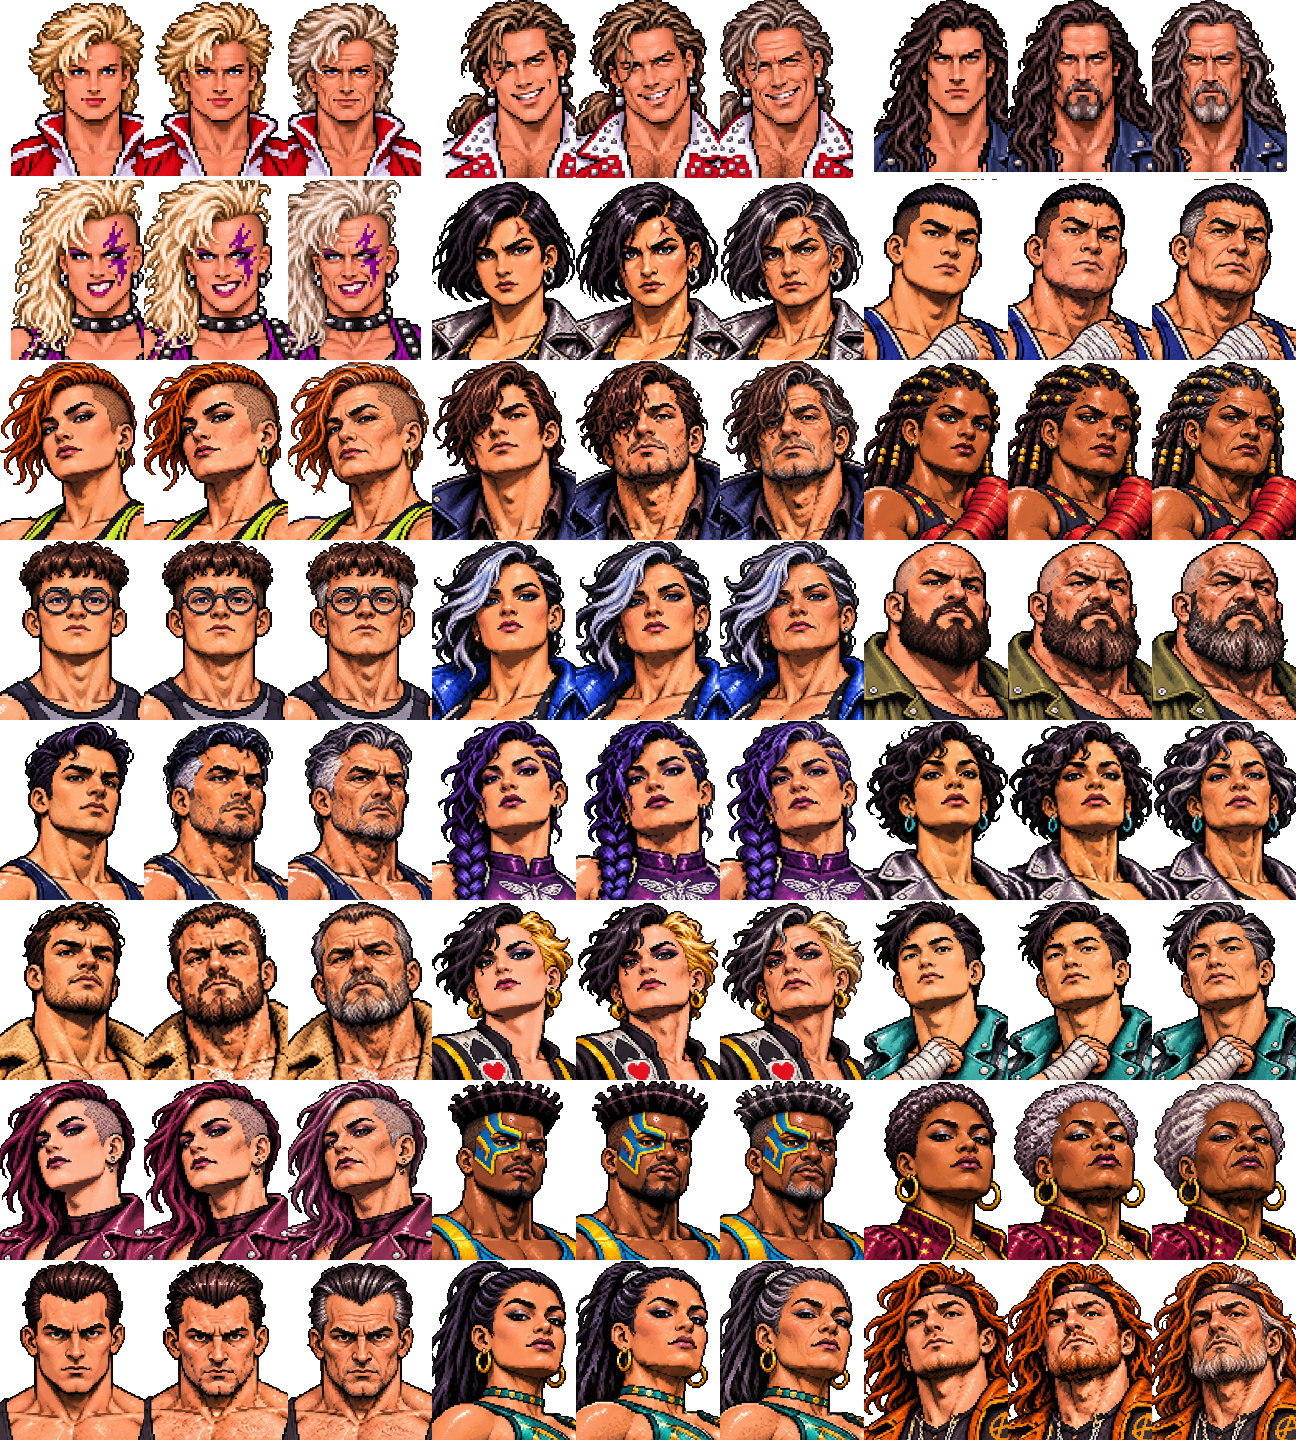
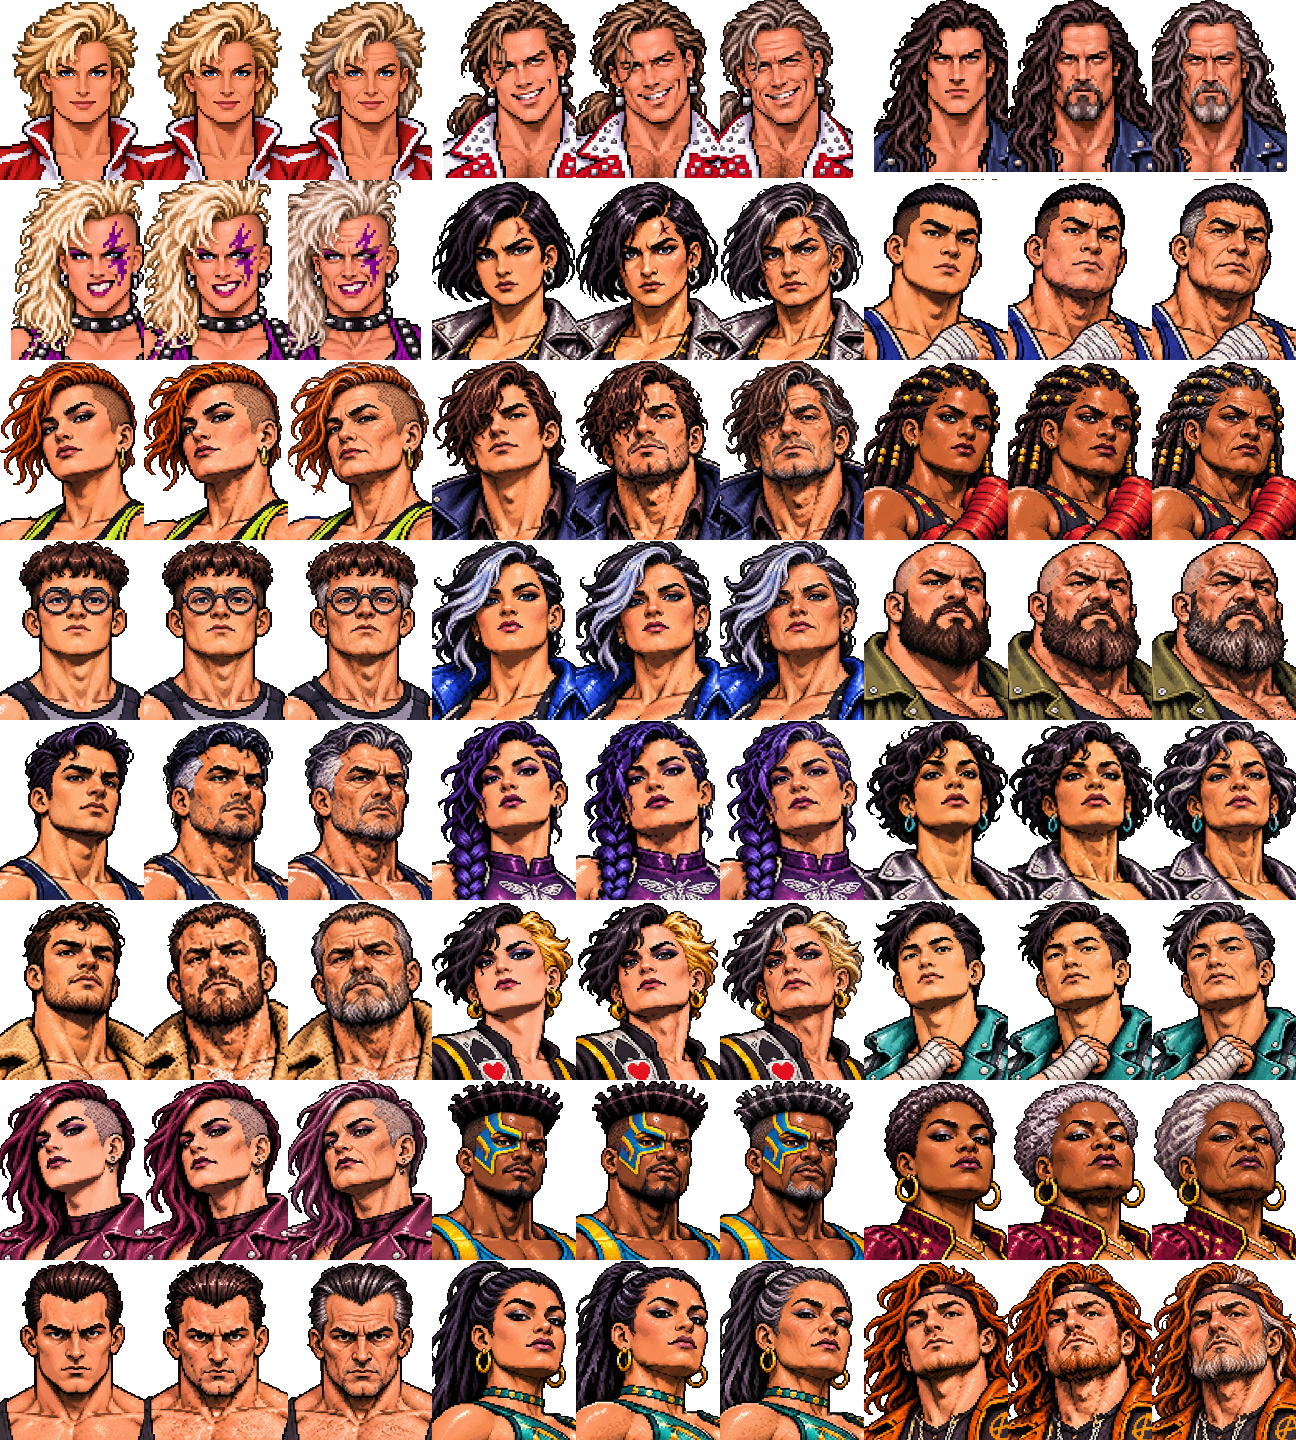
Restore Nova Bell portrait identity and framing across ages

Changed region(s): [[0.0, 0.0, 0.3395, 0.125]]

diff --git a/tools/import_age_atlases.py b/tools/import_age_atlases.py
@@ -5,6 +5,7 @@ The manifest provides three consecutive 144×180 cells (young, middle, old)
 per character. Asset names and coordinates stay stable for later art swaps.
 """
 import json
+import hashlib
 import sys
 from collections import defaultdict
 from pathlib import Path
@@ -24,9 +25,26 @@ def main(pack: Path) -> None:
         records[item["id"]][item["age"]] = item
     atlases = sorted((pack / "atlases").glob("portrait-atlas-*.png"))
     assert len(atlases) == 10
+    overrides = {}
+    override_dir = root / "art" / "source" / "age-portrait-overrides"
+    for item in manifest["records"]:
+        replacement = override_dir / f"{item['id'].replace(':', '-')}__{item['age']}.png"
+        if replacement.is_file():
+            with Image.open(replacement) as portrait:
+                assert portrait.mode == "RGBA" and portrait.size == (144, 180), replacement
+            item["file"] = replacement.relative_to(root).as_posix()
+            item["sha256"] = hashlib.sha256(replacement.read_bytes()).hexdigest()
+            overrides[(item["atlas"], item["x"], item["y"])] = replacement
     for i, atlas in enumerate(atlases, 1):
         with Image.open(atlas) as image:
             assert image.size == (1296, 1440)
+            image = image.convert("RGBA")
+            for (sheet, x, y), replacement in overrides.items():
+                if sheet != f"atlases/portrait-atlas-{i:02d}.png":
+                    continue
+                image.paste((0, 0, 0, 0), (x, y, x + 144, y + 180))
+                with Image.open(replacement) as portrait:
+                    image.alpha_composite(portrait, (x, y))
             image.save(target / f"atlas-{i:02d}.webp", "WEBP", lossless=True, method=6)
     cells = {}
     for key, ages in records.items():
